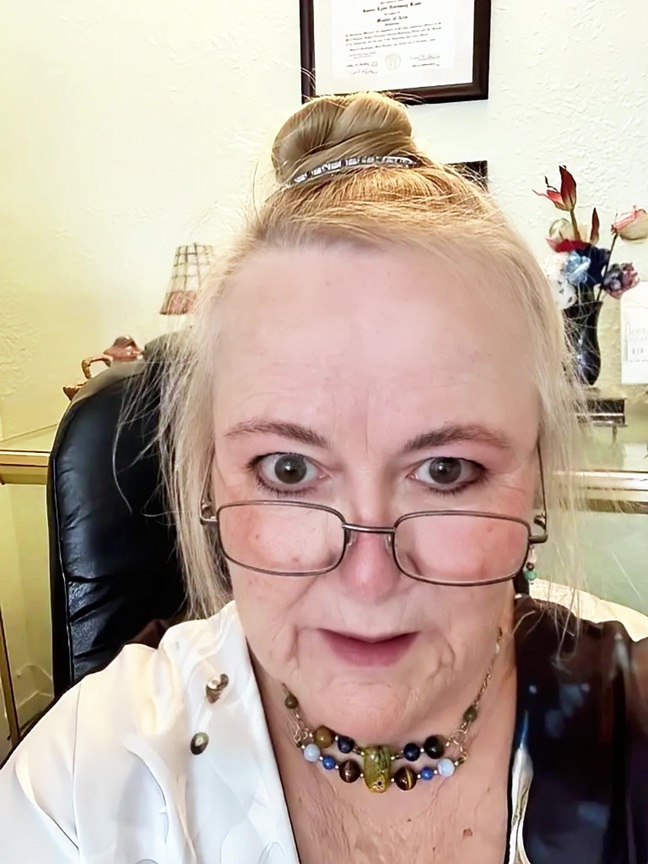
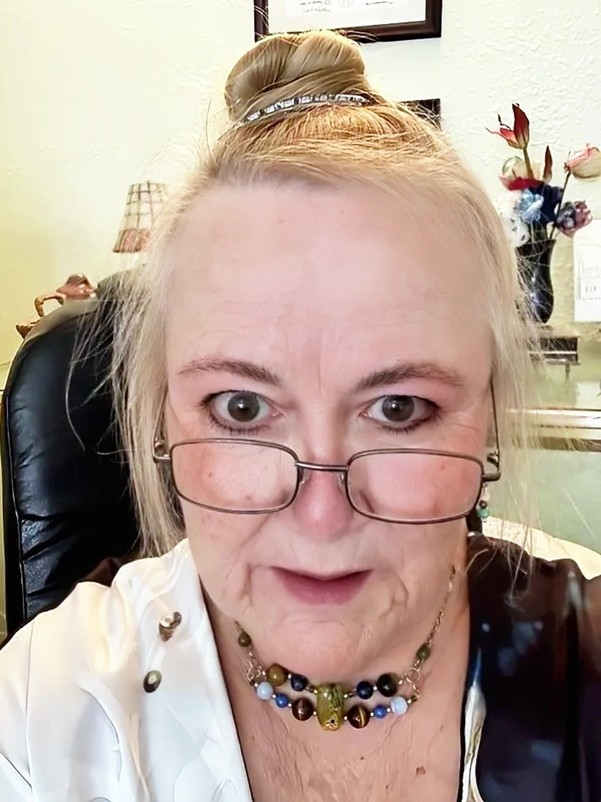
resize headshot photo and added head and foot to contact
tinkering

diff --git a/contact.html b/contact.html
@@ -7,21 +7,40 @@
     <link rel="stylesheet" href="styles.css">
 </head>
 <body>
-    <section class="contact-info">
-        <h2>Contact Information</h2>
-        <p><strong>Address:</strong> 315 Market St, Spencer, WV 25276-1811</p>
-        <p><strong>Phone:</strong> <a href="tel:+13049275262">(304) 927-5262</a></p>
-        <p><strong>Email:</strong> <a href="mailto:psych_srvcs@yahoo.com">psych_srvcs@yahoo.com</a></p>
-        <p><strong>Facebook:</strong> <a href="https://www.facebook.com/p/Psych-Services-of-Roane-Co-Inc-100064047403908/" target="_blank">Visit our Facebook page</a></p>
-    </section>
+    <header>
+        <h1>Psych Services of Roane County</h1>
+        <nav>
+            <ul>
+                <li><a href="index.html">Home</a></li>
+                <li><a href="about.html">About</a></li>
+                <li><a href="services.html">Services</a></li>
+                <li><a href="forms.html">Forms</a></li>
+                <li><a href="contact.html">Contact</a></li>
+            </ul>
+        </nav>
+    </header>
 
-    <section class="entrance-section">
-        <h2>How to Find Us</h2>
-        <img src="images/front-entrance.jpg" alt="Office Alcove Entrance" class="styled-photo">
-        <p class="photo-caption">
-            The entrance is the <strong>green door on the right</strong> in this alcove.<br>
-            Please follow the signage for guidance.
-        </p>
-    </section>
+    <main>
+        <section class="contact-info">
+            <h2>Contact Information</h2>
+            <p><strong>Address:</strong> 315 Market St, Spencer, WV 25276-1811</p>
+            <p><strong>Phone:</strong> <a href="tel:+13049275262">(304) 927-5262</a></p>
+            <p><strong>Email:</strong> <a href="mailto:psych_srvcs@yahoo.com">psych_srvcs@yahoo.com</a></p>
+            <p><strong>Facebook:</strong> <a href="https://www.facebook.com/p/Psych-Services-of-Roane-Co-Inc-100064047403908/" target="_blank">Visit our Facebook page</a></p>
+        </section>
+
+        <section class="entrance-section">
+            <h2>How to Find Us</h2>
+            <img src="images/front-entrance.jpg" alt="Office Alcove Entrance" class="styled-photo">
+            <p class="photo-caption">
+                The entrance is the <strong>green door on the right</strong> in this alcove.<br>
+                Please follow the signage for guidance.
+            </p>
+        </section>
+    </main>
+
+    <footer>
+        <p>&copy; 2025 Psych Services of Roane County, Inc. All rights reserved.</p>
+    </footer>
 </body>
 </html>
